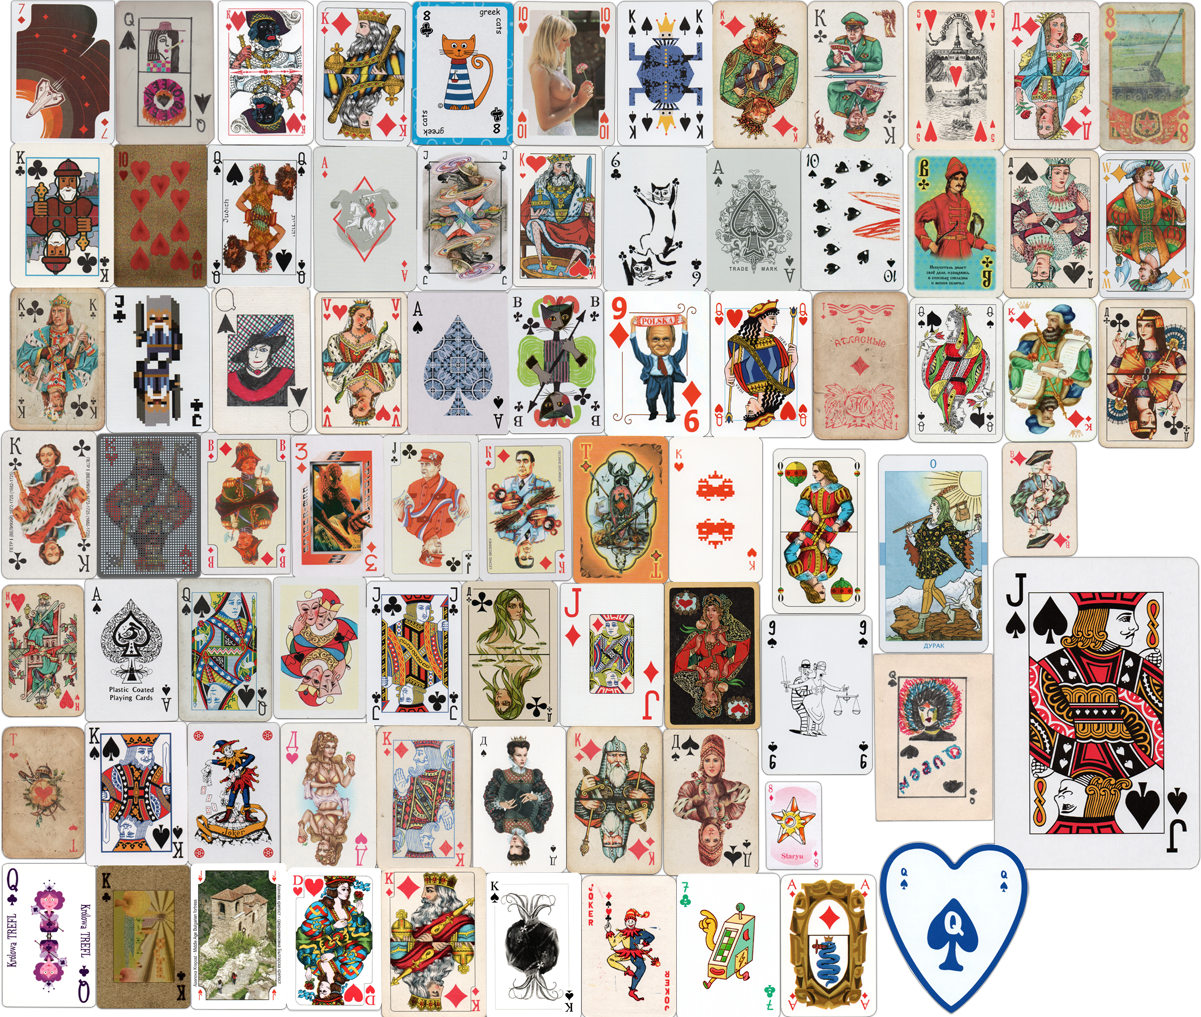
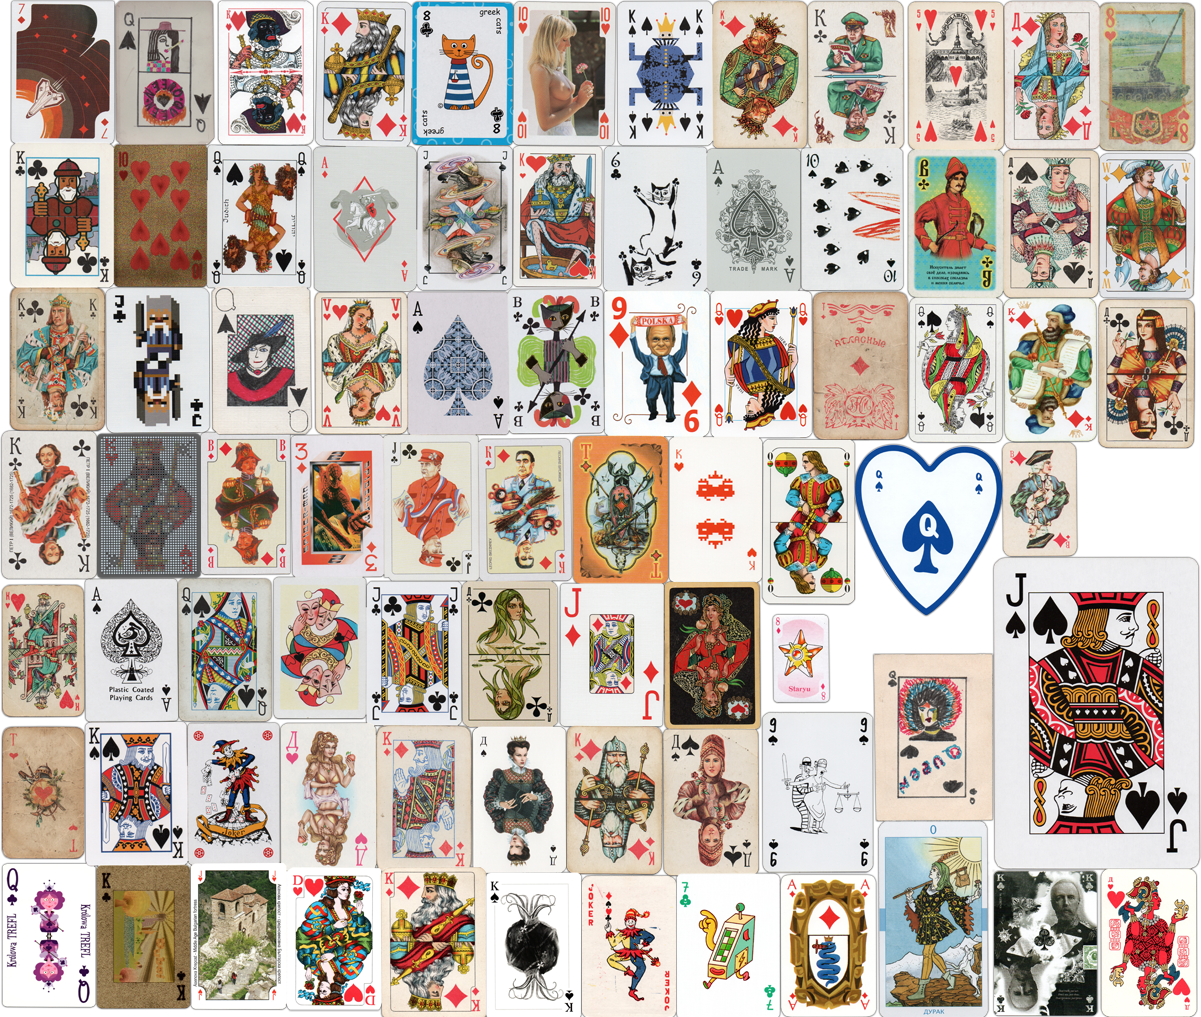
Playing cards: Update image

Changed region(s): [[0.6162, 0.4267, 1.0, 1.0]]

diff --git a/src/app/data/translations/ru.ts b/src/app/data/translations/ru.ts
@@ -426,7 +426,7 @@ export const ru: TranslatedStrings = {
       p2: 'Не ставлю себе задачу собрать очень много и всё подряд, поэтому коллекция не очень \
 большая и насчитывает на данный момент более 80 колод. Собираю именно те, \
 которые понравились.',
-      imgTitle: 'По одной карте из каждой колоды (кликабельно). Апрель 2019',
+      imgTitle: 'По одной карте из каждой колоды (кликабельно). Июнь 2019',
     },
   },
   Poland: {

diff --git a/src/app/data/translations/en.ts b/src/app/data/translations/en.ts
@@ -365,7 +365,7 @@ export const en: TranslatedStrings = {
       p2: 'There is no purpose to gather everything from everywhere, \
 so the collection is no so big and contains today more than 80 decks. \
 Collecting those which I really like.',
-      imgTitle: 'One card from each deck (clickable). April 2019',
+      imgTitle: 'One card from each deck (clickable). June 2019',
     },
   },
   Poland: {
